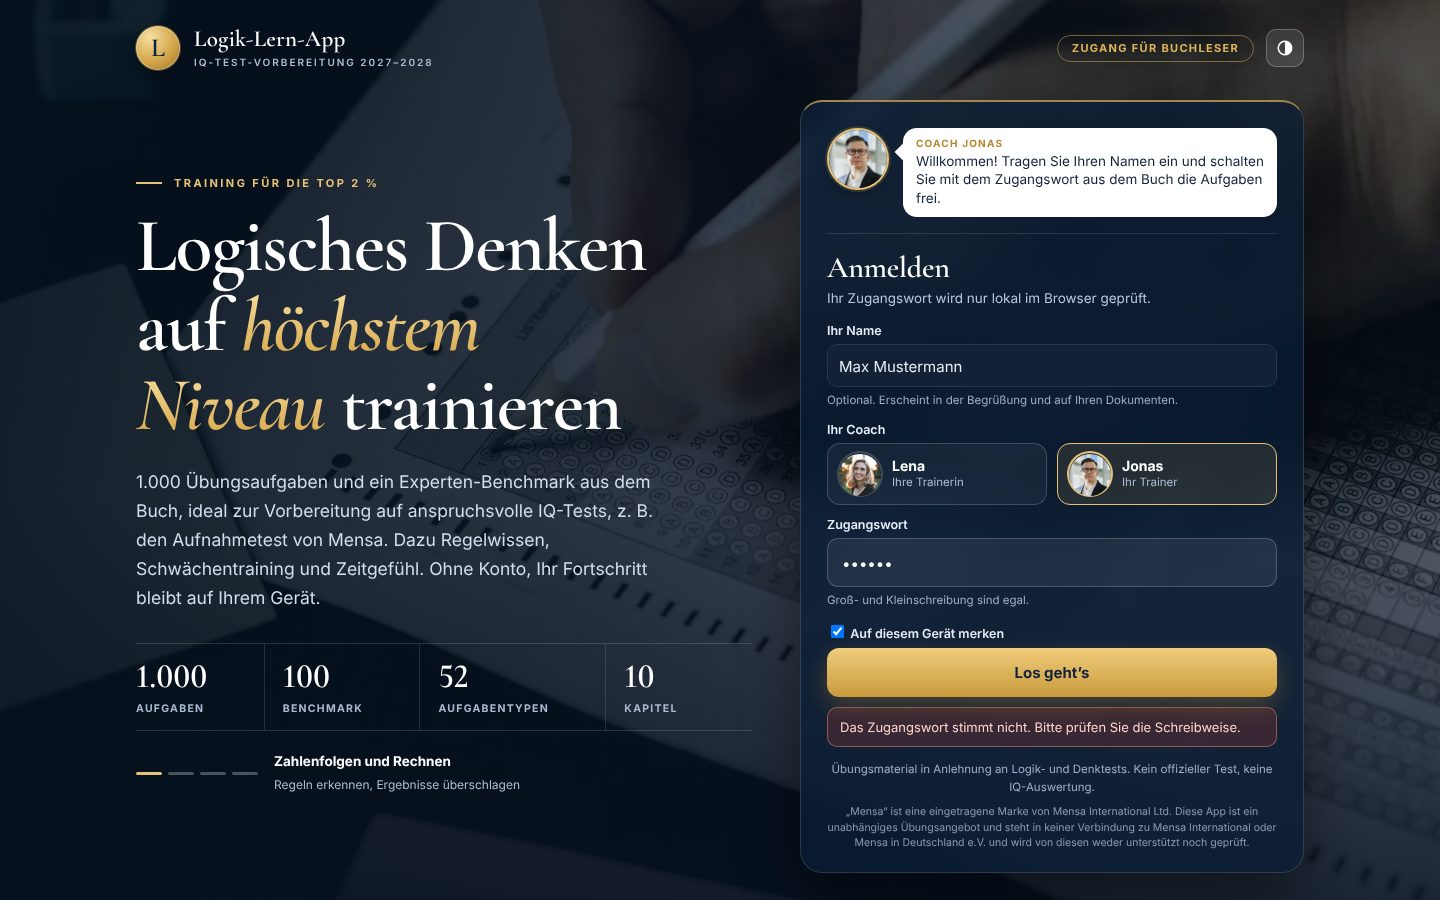
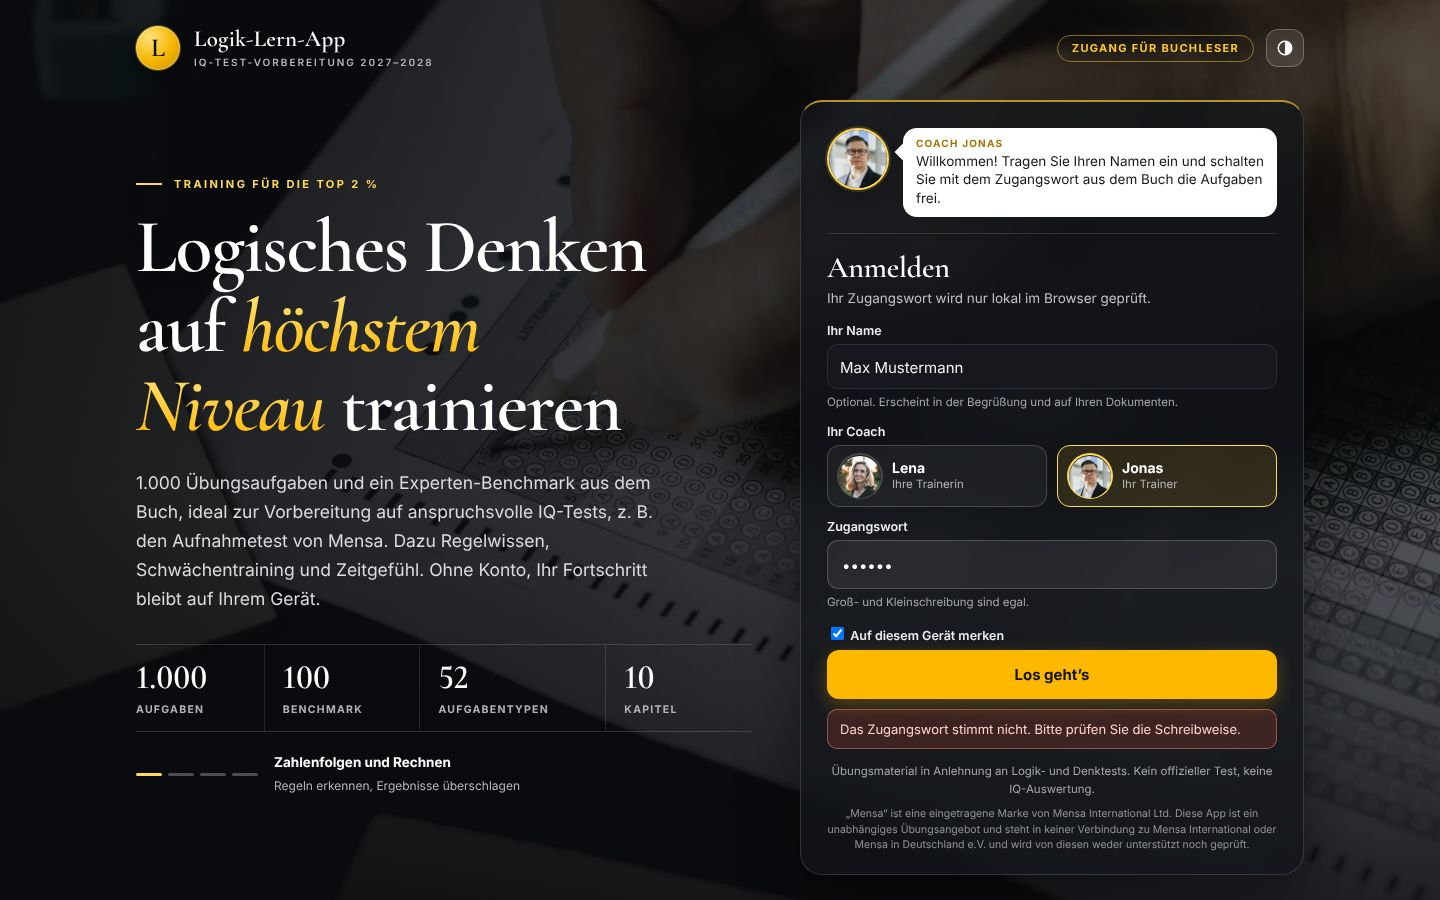
Document the interior redesign and add app screenshots
Claude-Session: https://claude.ai/code/session_01RuyoRGqof7djXvX6jMP3FV

diff --git a/DESIGN-REVIEW.md b/DESIGN-REVIEW.md
@@ -54,6 +54,37 @@ File size grew from 10.21 MB to about 10.64 MB.
 
 Fonts: Cormorant Garamond and Inter, both under the SIL Open Font License 1.1 via Google Fonts.
 
-## 6. Screenshots
+## 6. App interior redesign: "sun yellow and ink"
 
-`docs/screenshots/`: `before-landing.jpg`, `after-landing-dark.jpg`, `after-landing-light.jpg`, `after-mobile.jpg`, `coach-picker-before-after.jpg`.
+**Palette.** Navy and brass are replaced by a bold yellow on near-black, with warm white surfaces:
+
+| Token | Light | Dark | Use |
+|---|---|---|---|
+| `--sun` | `#ffc72c` | `#ffc72c` | Main buttons, active menu item, progress, chart bars |
+| `--sun2` | `#ffb800` | `#ffb800` | Hover, focus rings |
+| `--sunink` | `#9a6a00` | `#ffc72c` | Yellow *text* (eyebrows, question IDs). Dark gold on light backgrounds for legibility |
+| ink | `#15171c` | `#f2f1ee` | Text; secondary buttons in light mode |
+| sidebar / hero | `#111318` | `#111318` / `#16181d` | Sidebar and dashboard hero |
+| `--bg` / `--card` | `#f6f5f1` / `#fff` | `#0c0d10` / `#16181d` | Page and cards |
+
+The five area colors (Zahlen blue, Sprache green, Figural yellow, Gedächtnis violet, Transfer coral) were run through a colorblind-safety validator for both light and dark mode. They always appear next to their text label. The yellow is our own and does not copy Mensa's logo or trade dress.
+
+**Dashboard (Übersicht).** Replaces the single row of numbers and the floating "Guten Tag" bubble:
+- A dark hero card with the date, a time-of-day greeting ("Guten Morgen/Tag/Abend, *Max*"), the coach's message inline with their portrait, and a "Nächster Schritt" panel with a yellow Start button.
+- A progress ring: how much of the question bank has been worked through.
+- Four stat tiles with icons: answered, accuracy, streak, open mistakes. The tiles link to Fortschritt or the Fehlerheft.
+- An activity chart for the last 7 days, plus a yellow Experten-Benchmark card.
+- Clickable area cards: each opens "Nach Bereich üben" with that area preselected.
+- Quick-start tiles: 10 or 20 mixed questions, exam simulation, downloads.
+
+**Shell.** The sidebar is near-black with line icons in place of Unicode symbols, and the active item is a yellow pill. The top bar shows a streak chip and the user's initials, which link to Settings.
+
+**Controls.** Segmented controls, chips and inputs share a yellow focus ring. Answer options lift on hover, the chosen letter turns yellow and the correct answer gets a green halo. The timer is a dark pill with yellow digits. The solution box and the question's highlighted line use a soft yellow tint. Numbers now use lining figures everywhere.
+
+**Speed and feel.** Pages slide in over about 0.3 s with a short stagger, and buttons react within 0.12 s. All of this is switched off under "Bewegung reduzieren" or the system's reduced-motion setting.
+
+**How it was checked.** The access word wasn't available, so the inside of the app was rendered with a dummy question set shaped like the real data. This was done in light and dark mode and at 390 px phone width, and showed no script errors. The real questions, images and all learning logic are untouched.
+
+## 7. Screenshots
+
+`docs/screenshots/`: landing page (`before-landing.jpg`, `after-landing-dark.jpg`, `after-landing-light.jpg`, `after-mobile.jpg`), coach picker (`coach-picker-before-after.jpg`), app interior (`app-dashboard-before.jpg`, `app-dashboard-light.jpg`, `app-dashboard-dark.jpg`, `app-dashboard-mobile.jpg`, `app-question-light.jpg`). `after-landing-light.jpg`, `after-mobile.jpg` and `coach-picker-before-after.jpg` predate the yellow palette.
